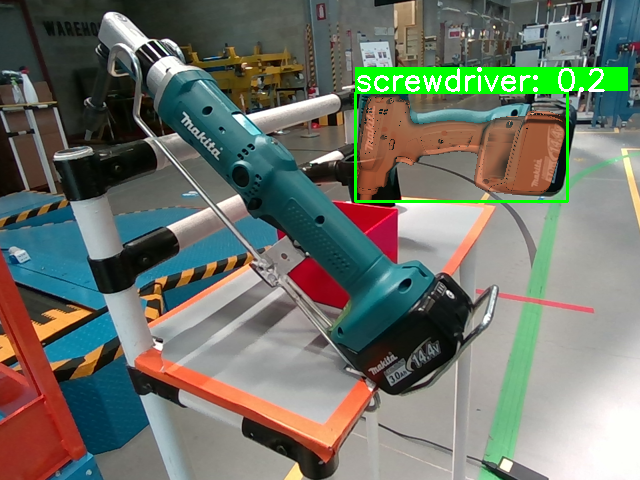
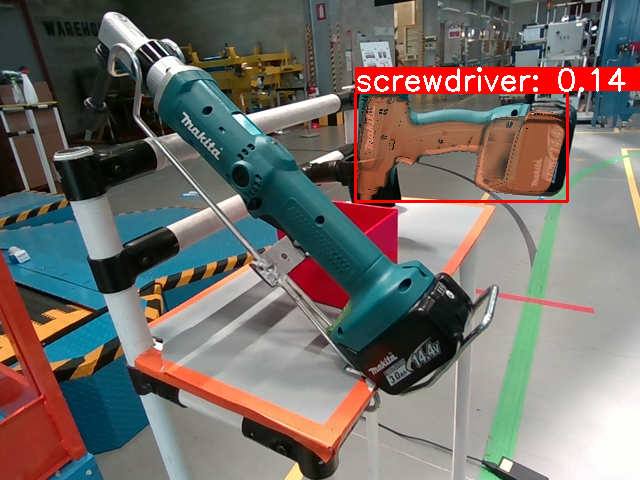
Update README + refactoring

Changed region(s): [[0.5312, 0.125, 1.0, 0.4375]]

diff --git a/score_poses.py b/score_poses.py
@@ -29,6 +29,9 @@ class score_args:
     # use estimator weights
     use_estimator_weights: bool = False
 
+    # Visualization
+    visualize: bool = False
+
 
 def run(args):
 
@@ -68,6 +71,8 @@ def run(args):
     renderer.create_data_buffers(vertices,indices,attrs=[2,3,4])
     renderer.CreateFramebuffer(GL_RGB32F,GL_RGBA,GL_FLOAT)
 
+    score_dict ={}
+    likelihoods_list = []
     for img in images:
 
         renderer.glConfig()
@@ -100,6 +105,7 @@ def run(args):
                                                  RT[:3,:],
                                                  K,
                                                  estimator_weights)
+        likelihoods_list.append([pose_id,likelihoods.mean()])
         # visualize and save results
         renderPose(vertices.reshape(-1,3),
                 indices,
@@ -114,6 +120,10 @@ def run(args):
                 mesh_color=[1.0, 0.5, 0.31],
                 rgb_image=img
                 )
+    score_dict["Confidence Lower Bound"] = cobra.conf_lower_bound
+    score_dict["scores"] = [likelihoods_list]
+    with open(jn(model_score_path,'scores.json'),'w') as f:
+            json.dump(score_dict,f,indent=4)
         
 if __name__ == "__main__":
     args = tyro.cli(score_args)

diff --git a/README.md b/README.md
@@ -10,7 +10,7 @@ Terzakis<sup>2</sup>](https://github.com/terzakig), [Maria Pateraki<sup>1,2</sup
 
 [![arXiv link](https://img.shields.io/badge/arXiv-2404.16471-B31B1B.svg)](https://arxiv.org/abs/2404.16471)
 
-[![GitHub Pages](https://img.shields.io/badge/GitHub%20Pages-Visit%20Site-brightgreen?style=for-the-badge&logo=github)](https://pansap99.github.io/COBRAv1.2/)
+[![GitHub Pages](https://img.shields.io/badge/GitHub%20Pages-Visit%20Site-brightgreen?style=for-the-badge&logo=github)](https://pose-lab.github.io/projects/COBRA/)
 
 **Abstract**: We present a generic algorithm for scoring pose estimation methods that rely on single image semantic analysis. The algorithm employs a lightweight putative shape representation using a combination of multiple Gaussian Processes. Each Gaussian Process (GP) yields distance normal distributions from multiple reference points in the object’s coordinate system to its surface, thus providing a geometric evaluation framework for scoring predicted poses. Our confidence measure comprises the average mixture probability of pixel back-projections onto the shape template. In the reported experiments, we compare the accuracy of our GP based representation of objects versus the actual geometric models and demonstrate the ability of our method to capture the influence of outliers as opposed to the corresponding intrinsic measures that ship with the segmentation and pose estimation methods.
 
@@ -121,6 +121,114 @@ python vis.py --num-points num_points # Subset of points to visualize \
 We utilize Blender's API to render the point clouds representing the points as spheres.
 
 ## Score 6D poses
+
+To score pre-computed estimated poses with COBRA you will need to provide a file in .csv format that contains 2D-3D correspodences and the confidence output of your estimator. An example of the structure of the file can be seen below:
+
+```
+inlier,x,y,X,Y,Z,conf
+1.0,534.0,166.0,73.149,114.048,10.581,0.138
+1.0,534.0,166.0,75.803,108.941,19.653,0.235
+1.0,538.0,166.0,75.970,112.339,7.050,0.278
+```
+
+Please follow the above structure of your data under the ```./scoring``` directory:
+
+```
+├── scoring
+│   └── tools
+│       └── screwdriver
+│           ├── corrs
+│           │   ├──  292_corr.txt
+│           │   ├──  433_corr.txt
+│           │   ├──  61_corr.txt
+│           │   └──  74_corr.txt
+│           ├── est_poses.json
+│           ├── images
+│           │   ├──  000061.png
+│           │   ├──  000074.png
+│           │   ├──  000292.png
+│           │   └──  000433.png
+│           ├── K.txt
+│           └── vis
+│               ├──  292.png
+│               ├──  433.png
+│               ├──  61.png
+│               └──  74.png
+```
+
+where:
+- ```tools``` is the class name.
+- ```screwdriver``` is the model name.
+- ```corrs``` folder contains the csv files with the 2D-3D correspodences.
+- ```images``` folder contaning the images that depict the object.
+- ```est_poses.json``` are the estimated 6D poses of the object in the images under the ```images``` folder.
+- ```vis``` folder will contain the visualization of the estimated poses together with the computed confidence score.
+
+To score 6D poses:
+
+```
+python score_poses.py \
+--class-name your_class_name \
+--model your_model_name \
+--delta delta_value \
+--visualize
+```
+
+An example can be seen below:
+
+Note that the **<span style="color:green">green</span>** outline indicates that the computed score is **greater** than the lower bound for the given delta value while the **<span style="color:red">red</span>**  outline that the score is **lower** than the lower bound.
+
+
+<p align="center">
+    <img src="./scoring/tools/screwdriver/vis/61.png" width="190" />
+    <img src="./scoring/tools/screwdriver/vis/433.png" width="190" />
+    <img src="./scoring/tools/screwdriver/vis/292.png" width="190" /> 
+    <img src="./scoring/tools/screwdriver/vis/74.png" width="190" />
+</p>
+
+Additionally, a file is created under ```./scoring/{class_name}/{model_name}/``` called scores.json which contain the computed confidence score for the images togehter with the confidence lower bound value. An example of the demo can be seen below:
+
+```
+{
+    "Confidence Lower Bound": 0.31185796164421375,
+    "scores": [
+        [
+            [
+                "292",
+                0.13946695218024632
+            ],
+            [
+                "74",
+                0.03143337440356358
+            ],
+            [
+                "61",
+                0.6488445935372978
+            ],
+            [
+                "433",
+                0.5069502524015893
+            ]
+        ]
+    ]
+}
+```
+
+## Citation
+
+```
+@misc{sapoutzoglou2024cobra,
+        title={COBRA - COnfidence score Based on shape Regression Analysis for method-independent quality assessment of object pose estimation from single images}, 
+        author={Panagiotis Sapoutzoglou and George Giapitzakis and George Terzakis and Maria Pateraki},
+        year={2024},
+        eprint={2404.16471},
+        archivePrefix={arXiv},
+        primaryClass={cs.CV},
+        url={https://arxiv.org/abs/2404.16471}
+}
+```
+
+
 
 
 
